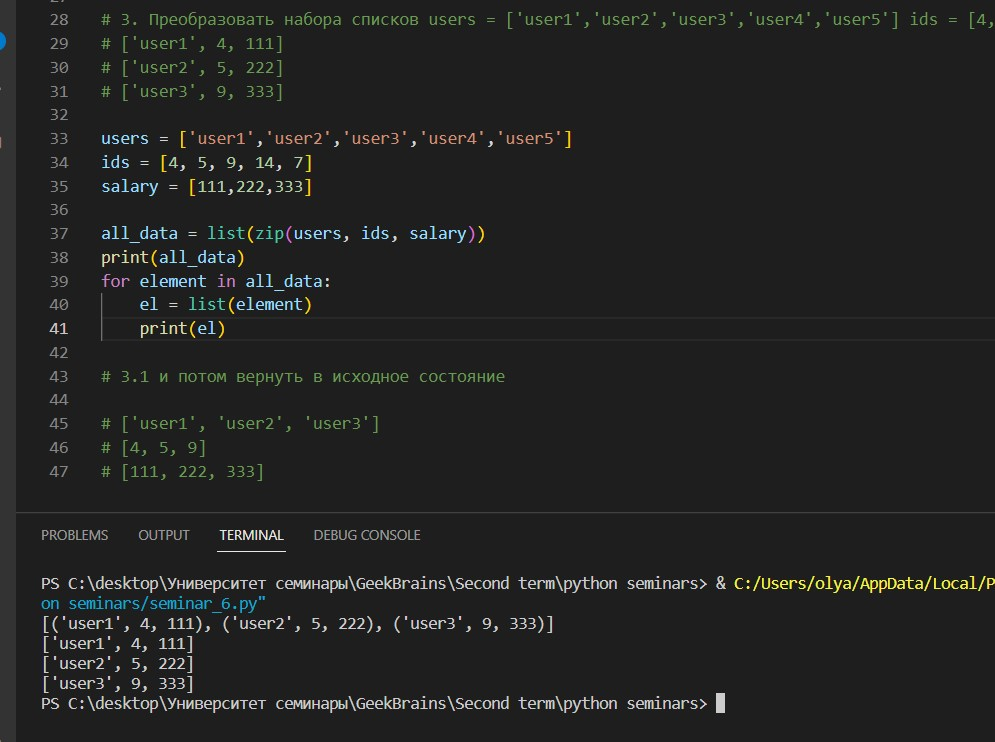
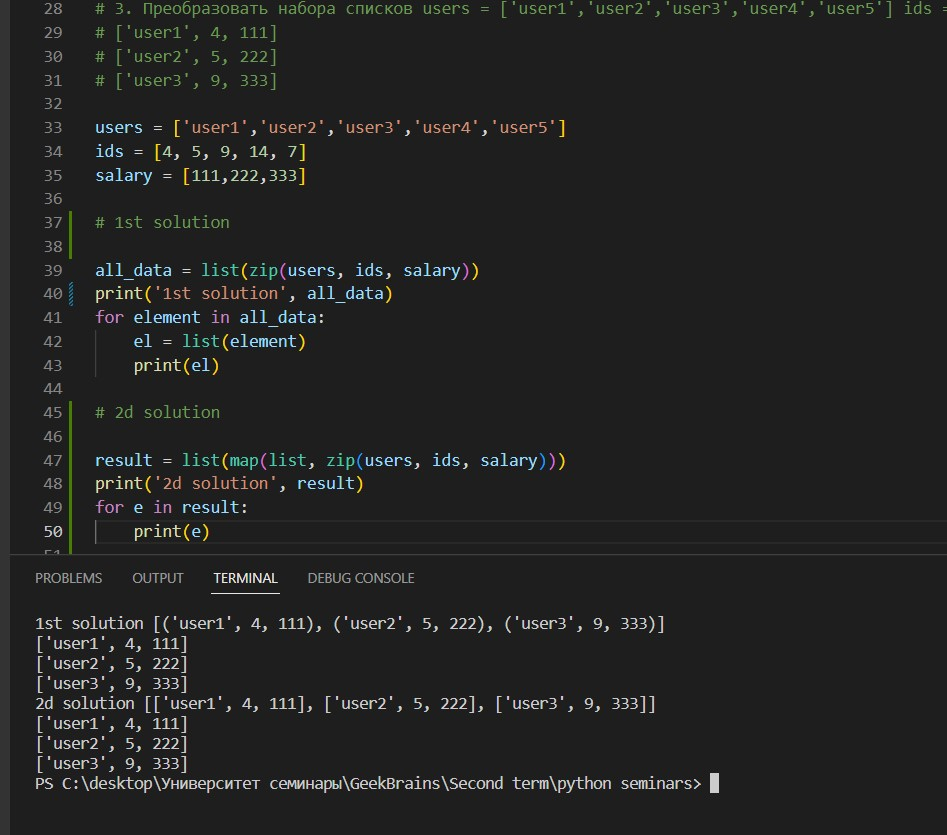
fix

diff --git a/seminar_6.py b/seminar_6.py
@@ -30,17 +30,40 @@
 # ['user2', 5, 222]
 # ['user3', 9, 333]
 
-users = ['user1','user2','user3','user4','user5'] 
-ids = [4, 5, 9, 14, 7] 
-salary = [111,222,333]
+# users = ['user1','user2','user3','user4','user5'] 
+# ids = [4, 5, 9, 14, 7] 
+# salary = [111,222,333]
 
-all_data = list(zip(users, ids, salary))
-print(all_data)
-for element in all_data:
-    el = list(element)
-    print(el)
+# # 1st solution
 
-# 3.1 и потом вернуть в исходное состояние
+# all_data = list(zip(users, ids, salary))
+# print('1st solution', all_data)
+# for element in all_data:
+#     el = list(element)
+#     print(el)
+
+# # 2d solution
+
+# result = list(map(list, zip(users, ids, salary)))
+# print('2d solution', result)
+# for e in result:
+#     print(e)
+
+
+# # 3.1 и потом вернуть в исходное состояние
+
+# reversedList = []
+# a = []
+# b = []
+# c = []
+# for i in all_data:
+#     a.append(i[0])
+#     b.append(i[1])
+#     c.append(i[2])
+# reversedList.append(list(a))
+# reversedList.append(list(b))
+# reversedList.append(list(c))
+# print('reversed list is ', reversedList)
 
 # ['user1', 'user2', 'user3']
 # [4, 5, 9]

diff --git a/seminar_2.py b/seminar_2.py
@@ -10,6 +10,23 @@
 #     sum += int(i)
 # print('sum is ', sum)
 
+# Improvements of previous homework
+# 1. Напишите программу, которая принимает на вход вещественное число и показывает сумму его цифр.
+# Пример:
+# - 6782 -> 23
+# - 0,56 -> 11
+
+def sum(number, sum):
+    return sum + number
+
+a = 0.56
+s = str(a).replace('.', '')
+s = list(lambda x: x in s)
+total = 0
+total = map(sum, s)
+print(type(total))
+print('total is ', total)
+
 # 2. Напишите программу, которая принимает на вход число N и выдает набор произведений чисел от 1 до N.
 # Пример:
 # - пусть N = 4, тогда [ 1, 2, 6, 24 ] (1, 1*2, 1*2*3, 1*2*3*4)
